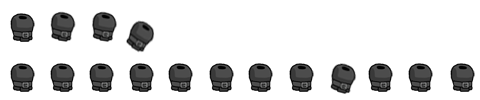
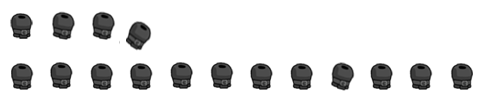
플레이어 피격과 무적에 대한 bool 변수 추가 검은장비 이미지 수정

diff --git a/sceneInit.cpp b/sceneInit.cpp
@@ -132,8 +132,12 @@ void sceneInit::playerInitImage(void)
 	//IMAGEMANAGER->addFrameImage(DEVICE, L"bodyRightJumpDown", L"image/player/unarmed/body_jump_down.png", 1, 1);
 	//IMAGEMANAGER->addFrameImage(DEVICE, L"bodyRightWalk", L"image/player/unarmed/body_walk.png", 12, 1);
 	IMAGEMANAGER->addFrameImage(DEVICE, L"unarmedBodyRight", L"image/player/unarmed/body.png", 12, 2);
+
+	//	ITEM
 	IMAGEMANAGER->addFrameImage(DEVICE, L"blackBodyRight", L"image/player/black/body.png", 12, 2);
 	IMAGEMANAGER->addFrameImage(DEVICE, L"blackFootRight", L"image/player/black/foot.png", 12, 2);
+	IMAGEMANAGER->addFrameImage(DEVICE, L"goldBodyRight", L"image/player/gold/body.png", 12, 2);
+	IMAGEMANAGER->addFrameImage(DEVICE, L"goldFootRight", L"image/player/gold/foot.png", 12, 2);
 
 	IMAGEMANAGER->addFrameImage(DEVICE, L"frontArmRight", L"image/player/unarmed/arm_front.png", 16, 3);
 	IMAGEMANAGER->addFrameImage(DEVICE, L"backArmRight", L"image/player/unarmed/arm_back.png", 16, 3);
@@ -150,8 +154,12 @@ void sceneInit::playerInitImage(void)
 	//IMAGEMANAGER->addFrameImage(DEVICE, L"bodyLeftJumpDown", L"image/player/unarmed/body_jump_down.png", 1, 1);
 	//IMAGEMANAGER->addFrameImage(DEVICE, L"bodyLeftWalk", L"image/player/unarmed/body_walk.png", 12, 1);
 	IMAGEMANAGER->addFrameImage(DEVICE, L"unarmedBodyLeft", L"image/player/unarmed/body.png", 12, 2);
+
+	//	ITEM
 	IMAGEMANAGER->addFrameImage(DEVICE, L"blackBodyLeft", L"image/player/black/body.png", 12, 2);
 	IMAGEMANAGER->addFrameImage(DEVICE, L"blackFootLeft", L"image/player/black/foot.png", 12, 2);
+	IMAGEMANAGER->addFrameImage(DEVICE, L"goldBodyLeft", L"image/player/gold/body.png", 12, 2);
+	IMAGEMANAGER->addFrameImage(DEVICE, L"goldFootLeft", L"image/player/gold/foot.png", 12, 2);
 
 	IMAGEMANAGER->addFrameImage(DEVICE, L"frontArmLeft", L"image/player/unarmed/arm_front.png", 16, 3);
 	IMAGEMANAGER->addFrameImage(DEVICE, L"backArmLeft", L"image/player/unarmed/arm_back.png", 16, 3);
